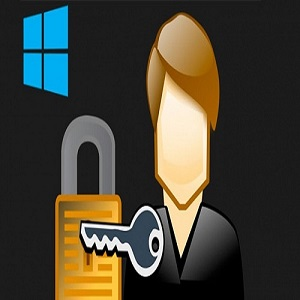
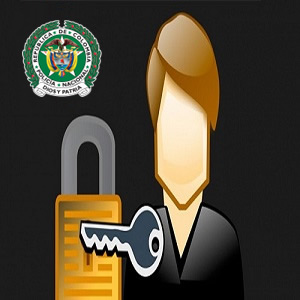
Ajustes menu principal
Ajuste de iconos y actualizacion vinculos menu superior

Changed region(s): [[0.06, 0.0, 0.36, 0.33]]

diff --git a/menupal.html b/menupal.html
@@ -58,7 +58,7 @@
 
 				<div class="col-xs-12 col-sm-6 col-md-4">
 					<div class="thumbnail">					
-							<img src="imagenes/cambioPass.jpg" alt="Registro Personas" width="100">
+							<img src="imagenes/resgistros.jpg" alt="Registro Personas" width="100">
 						<div class="caption text-center">
 						  <h4>Registro Personas </h4>
 						  <p>Para registro de ingreso y salida de personas al CTP.</p>

diff --git a/Ingreso_CTP.html b/Ingreso_CTP.html
@@ -47,7 +47,7 @@
 					        <li><a href="Crear_Persona.html">Crear Persona</a></li>
 				          </ul>
 				        </li>
-					    <li><a href="index2.html">Usuario</a></li>
+					    <li><a href="index2.html">Cambiar Contraseña</a></li>
 					    <li><a href="#salir">Salir</a></li>
 				      </ul>
 				  </div>

diff --git a/Crear_Persona.html b/Crear_Persona.html
@@ -47,7 +47,7 @@
 					        <li><a href="Crear_Persona.html">Crear Persona</a></li>
 				          </ul>
 				        </li>
-					    <li><a href="#usuario">Usuario</a></li>
+					    <li><a href="index2.html">Cambiar Contraseña</a></li>
 					    <li><a href="#salir">Salir</a></li>
 				      </ul>
 				  </div>

diff --git a/css/main.css b/css/main.css
@@ -206,12 +206,9 @@ article hr{
 
 /*OPCIONES DE REGISTRO CTP - GIOVANNY FIGUEROA GARCIA*/
 
-#boton{
-
-}
 
 body { 
-	background-image: url(../img/banner1.jpg);
+	background-image: url(../imagenes/banner1.jpg);
 	background-size: 100vw 100vh;
 	background-attachment: fixed;
 	margin: 0;

diff --git a/css/boton.css b/css/boton.css
@@ -1,5 +1,5 @@
 body {
-	background-image: url(../img/banner1.jpg);
+	background-image: url(../imagenes/banner1.jpg);
 	background-size: 100vw 100vh;
 	background-attachment: fixed;
 	margin: 0;
